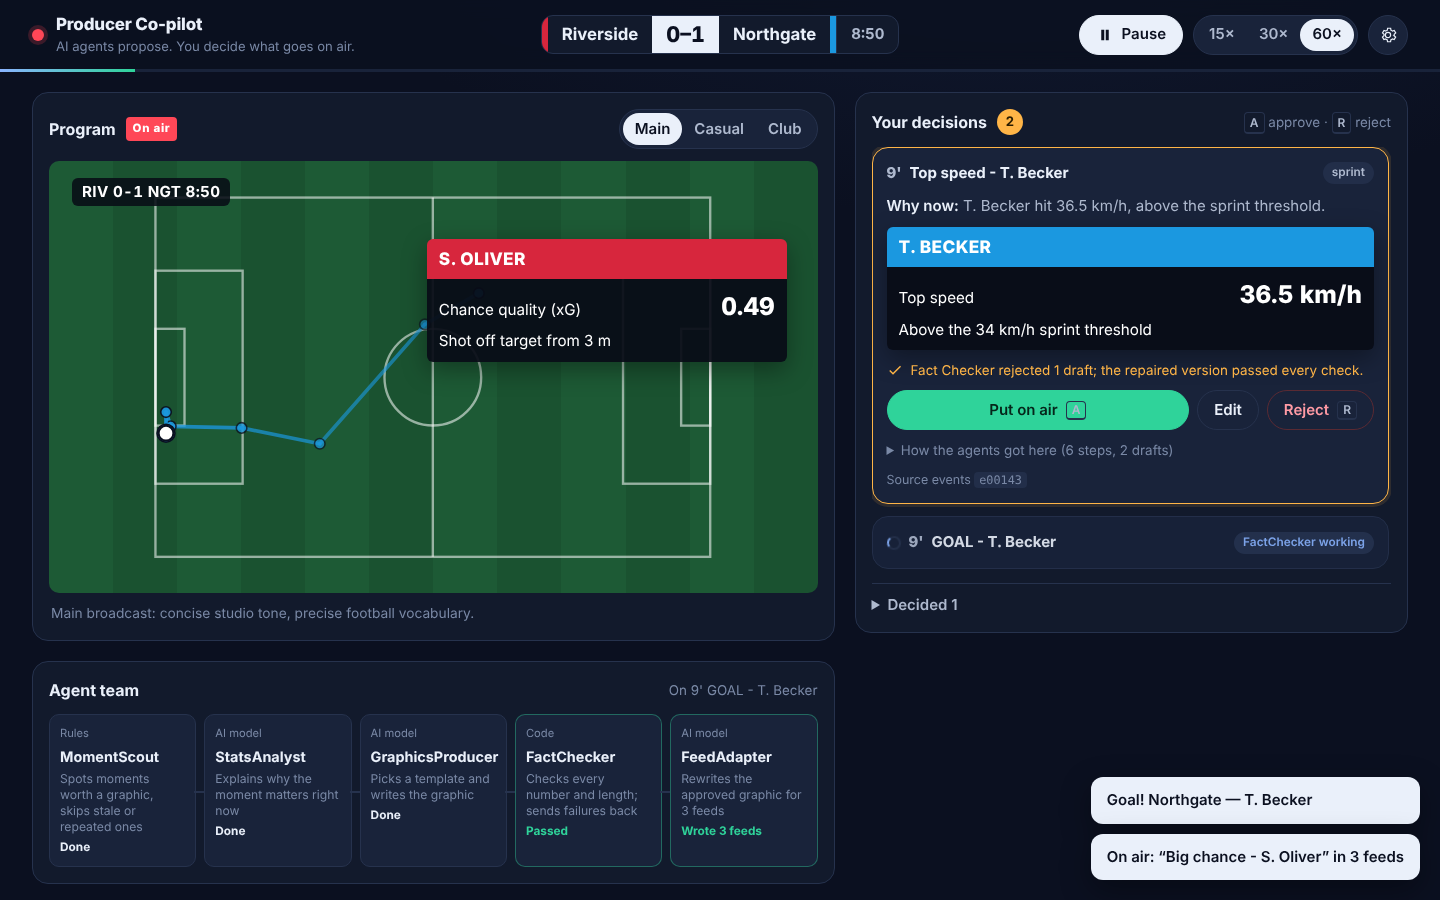
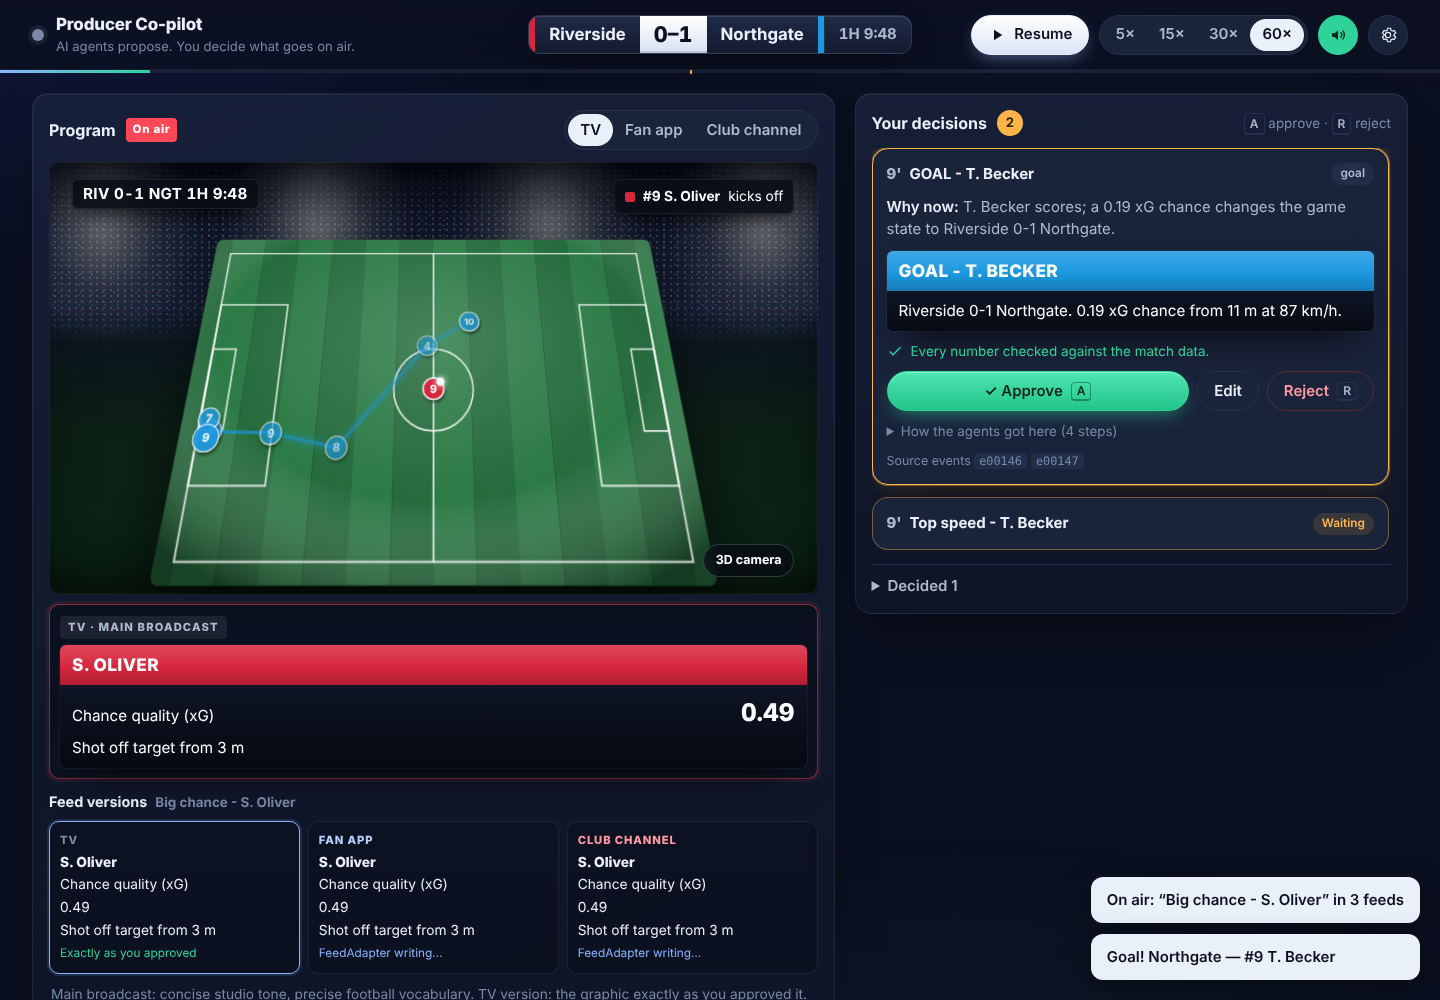
README: live pacing, feed looks, neural commentator, Foundry and Speech
Claude-Session: https://claude.ai/code/session_01MpotR3Y68ev47ZUWMbGXfN

diff --git a/README.md b/README.md
@@ -1,6 +1,6 @@
 # Producer Co-pilot
 
-An agent-assisted live graphics desk for football broadcasts. A team of AI agents watches a live (synthetic) match feed, proposes the right on-screen graphic at the right moment, explains why it matters now, and fact-checks every number before a human producer sees it. One approval puts the graphic on air in three feeds (main broadcast, casual streaming, club channel) as timed, machine-readable overlay cues.
+An agent-assisted live graphics desk for football broadcasts. A team of AI agents watches a live (synthetic) match feed, proposes the right on-screen graphic at the right moment, explains why it matters now, and fact-checks every number before a human producer sees it. One approval puts the graphic on air at once in three feeds (TV, fan app, club channel) as timed, machine-readable overlay cues, while a neural-voice commentator calls the match from the same verified data.
 
 Built for the Microsoft x Premier League **Inside the Game** developer hackathon. Category: **Best Multi-Agent System**.
 
@@ -20,7 +20,8 @@ A live graphics producer has a few seconds to decide what goes on screen. Under 
 | **Interpret** | A deterministic stats engine computes possession, pass length, accuracy and a 0-100 difficulty rating, shot speed and xG, sprint speed, a rolling momentum index, and a control-vs-chaos index. Every value keeps the IDs of the events it came from. |
 | **Explain** | The `StatsAnalyst` agent writes the "why now" for each moment: pressing, rhythm, game state, control vs chaos. |
 | **Render** | The `GraphicsProducer` agent fills one of five broadcast templates within strict character limits. Approved graphics appear in the on-air preview and on `GET /api/overlays` as timed cues (`t_in`, `t_out`, template, slots, source events). |
-| **Personalize** | The `FeedAdapter` agent rewrites each approved graphic for the main broadcast, a casual streaming audience, and a chosen club's channel. |
+| **Personalize** | The `FeedAdapter` agent rewrites each approved graphic for TV, a fan app for newcomers (plain words, no jargon) and a chosen club's own channel (first-person, partisan). Each version is fact-checked line by line and gets its own on-screen look. |
+| **Commentate** | Play-by-play and colour commentary built from the live events and computed stats, spoken by an Azure AI Speech neural voice whose style follows the moment: chat, excited, shouting for goals. |
 
 ## The agent team
 
@@ -46,28 +47,33 @@ The pipeline is a [Microsoft Agent Framework](https://github.com/microsoft/agent
 - **StatsAnalyst** (LLM agent) explains why the moment matters, using only the verified facts.
 - **GraphicsProducer** (LLM agent) picks a template and writes the slots.
 - **FactChecker** (deterministic executor) rejects any number that isn't in the facts and any slot over its character limit, then sends its reasons back to the `GraphicsProducer`. After 3 rejected drafts it substitutes a verified template, so the queue never stalls.
-- **FeedAdapter** (LLM agent) creates the three feed versions after approval. Each version is fact-checked again, and any feed that fails falls back to the approved wording.
+- **FeedAdapter** (LLM agent) creates the fan-app and club versions after approval, while the approved TV version is already on air. Each line is fact-checked; rejected lines go back to the agent once with the checker's reasons, and any line that still fails keeps the approved wording.
 - **StudioPackage** (LLM agent) builds a ranked half-time and full-time rundown plus a presenter script. The script's numbers are checked as well.
 
 The human producer stays in control. Edits made by hand are fact-checked too, and every proposal, edit, approval and rejection is written to the audit log.
+
+**Keeping pace with a live match:** approval airs the graphic immediately; three workers draft moments in parallel; moments that go stale before drafting, or wait too long for a decision, expire instead of reaching the producer late.
 
 **Failure handling:** model errors, rate limits and unparseable replies all fall back to deterministic, verified templates, and the console keeps running. **Fault injection** (a toggle in the header) deliberately corrupts one number in each first draft, so you can watch the `FactChecker` catch it and the `GraphicsProducer` repair it.
 
 ## Microsoft technology
 
 - **Microsoft Agent Framework (Python):** the agents, the workflow graph with its retry cycle, and the executors.
-- **Model access:** Agent Framework's OpenAI-compatible chat client, so any compatible provider works, Microsoft Foundry included. Switching providers only means changing `LLM_BASE_URL`, `LLM_API_KEY` and `LLM_MODEL`.
-- **Azure Container Apps:** hosts the public demo (`infra/deploy-azure.sh`); the model key is a Container Apps secret.
+- **Microsoft Foundry:** the live demo's agents run on a `gpt-5-mini` deployment (Global Standard) through Agent Framework's OpenAI-compatible chat client, with `reasoning_effort=low` for live-desk latency. Switching providers only means changing `LLM_BASE_URL`, `LLM_API_KEY` and `LLM_MODEL`.
+- **Azure AI Speech:** the commentator's neural voice (`en-US-DavisNeural`) with SSML speaking styles; usage is capped per minute and per day (`app/tts.py`).
+- **Azure Container Apps:** hosts the public demo (`infra/deploy-azure.sh`); model and speech keys are Container Apps secrets.
 - **GitHub Codespaces:** a one-click environment for judges (`.devcontainer/`).
 - **GitHub Copilot:** used while building the project.
 
 ## Using the console
 
-1. Press **Start match**. The synthetic game replays at 15× (switch to 30× or 60× in the top bar).
-2. The **Agent team** strip shows which agent is working on the current moment and whether the Fact Checker passed or rejected a draft.
-3. **Your decisions** lists graphics waiting for you, highest priority first. The top card is expanded: read *Why now*, check the verification line, then **Put on air** (`A`), **Edit**, or **Reject** (`R`). Cards never move while your pointer is over the list, so you always act on the card you see.
-4. Aired graphics appear on the **Program** monitor; switch between the **Main**, **Casual** and **Club** feeds to compare the three versions.
-5. Open the settings (gear icon) to turn on **Fault test** and watch the Fact Checker reject a wrong number and the Graphics Producer repair it.
+1. Press **Start match**. The synthetic game replays at 15× (5× feels closest to live and suits the commentator; 30× and 60× are for skimming). Stadium sound and the commentator start with the match; the speaker button mutes them.
+2. The **Program** monitor shows the pitch from a broadcast camera angle with shirt numbers and who has the ball (**Top view** switches to a tactical view). Lineups are under **Match stats**.
+3. The **Agent team** strip shows which agent is working and whether the Fact Checker passed or rejected a draft.
+4. **Your decisions** lists graphics waiting for you, highest priority first. Read *Why now*, check the verification line, then **✓ Approve** (`A`), **Edit**, or **Reject** (`R`). Cards never move while your pointer is over the list.
+5. Approved graphics air at once in the strip under the pitch, so the pitch stays clear. Switch **TV / Fan app / Club channel** to see each feed's look, and read all three texts side by side under **Feed versions**.
+6. At half-time the replay rests briefly behind a studio card with the first-half numbers; the half-time and full-time rundowns appear under **Studio package** (**Build rundown now** makes one at any moment).
+7. Open the settings (gear icon) to turn on **Fault test**, choose the club for the club channel, or switch the commentator voice off.
 
 Every visitor gets their own console (match, queue and audit log), so several judges can test the public demo at the same time without affecting each other.
 
@@ -91,9 +97,9 @@ Keyboard shortcuts: `a` approves and `r` rejects the highest-priority pending su
 
 ### Test instructions for judges
 
-1. Start the server as shown above and press **Start**. 15x speed plays a full match in about 6 minutes.
-2. Turn on **Fault injection**, then open a card's **Agent trace** to see a draft rejected and repaired.
-3. Press **Approve to air** on a card, then switch the on-air preview between **main**, **casual** and **club**.
+1. Open the live demo (or start the server as shown above) and press **Start match**. 15× plays a full match in about 6 minutes.
+2. Turn on **Fault test** in settings, then open a card's **How the agents got here** to see a draft rejected and repaired.
+3. Press **✓ Approve** on a card, then compare **TV**, **Fan app** and **Club channel** under **Feed versions**.
 4. Press **Edit** on a card and type a number that isn't in the facts. The Fact Checker blocks the edit.
 5. Open http://localhost:8000/api/overlays to see the machine-readable cue sheet, or `/api/audit` for the audit log.
 
@@ -108,7 +114,7 @@ LLM_BASE_URL=https://<resource>.openai.azure.com/openai/v1/ LLM_API_KEY=<key> LL
   bash infra/deploy-azure.sh                     # with a Microsoft Foundry model
 ```
 
-The API key is stored as a Container Apps secret, never in the image or the repository. The app runs on one replica because each visitor's console is kept in memory.
+For the neural commentator, add the Azure AI Speech (or Foundry AIServices) key as a secret and set `SPEECH_KEY=secretref:<secret>` and `SPEECH_REGION=<region>` on the container app. Keys are stored as Container Apps secrets, never in the image or the repository. The app runs on one replica because each visitor's console is kept in memory.
 
 ## Synthetic data
 
@@ -128,6 +134,8 @@ uv run python -m app.generator --seed 1    # writes data/match_1.json
 | POST | `/api/suggestions/{id}/approve` | Approve, optionally with edited `slots` (these are fact-checked) |
 | POST | `/api/suggestions/{id}/reject` | Reject with a reason |
 | GET | `/api/overlays?feed=main` | Timed overlay cues for a graphics engine |
+| POST | `/api/tts` | `{text, level}` → MP3 commentary line from Azure AI Speech (capped; 404 when not configured) |
+| GET | `/api/health` | Model and voice mode |
 | GET | `/api/audit` | Audit log |
 | POST | `/api/package` | Build a studio package on demand |
 
@@ -143,11 +151,12 @@ The tests cover how realistic and deterministic the generated data is, that ever
 
 - The data is synthetic and event-level only. There is no video and no automatic event tagging from video.
 - Possession is measured by time between possession changes, a simplification of real possession models.
-- Model calls are spaced out (`LLM_MIN_INTERVAL_S`) and cached, so with a slow or rate-limited provider some lower-priority moments may be dropped while the agents are busy.
+- At 30× and 60× the model cannot draft every moment in time; stale moments are dropped by design. 5× and 15× keep pace.
+- The commentator speaks from templates filled with live data (no model in the loop), so its wording repeats over a long match. Without Azure AI Speech configured it falls back to the browser's built-in voice.
 
 ## Credits
 
-Original concept, agents and simulation by Dimas Wahyu Saputro ([diwahsap](https://github.com/diwahsap)). Console redesign, per-visitor sessions and Azure deployment added by [Albategnius](https://github.com/Albategnius). Same team.
+Original concept, agents and simulation by Dimas Wahyu Saputro ([diwahsap](https://github.com/diwahsap)). Console redesign (3D broadcast camera, feed looks, half-time studio), per-visitor sessions, live pacing, neural-voice commentator, Microsoft Foundry and Azure deployment added by [Albategnius](https://github.com/Albategnius). Same team.
 
 ## License
 
